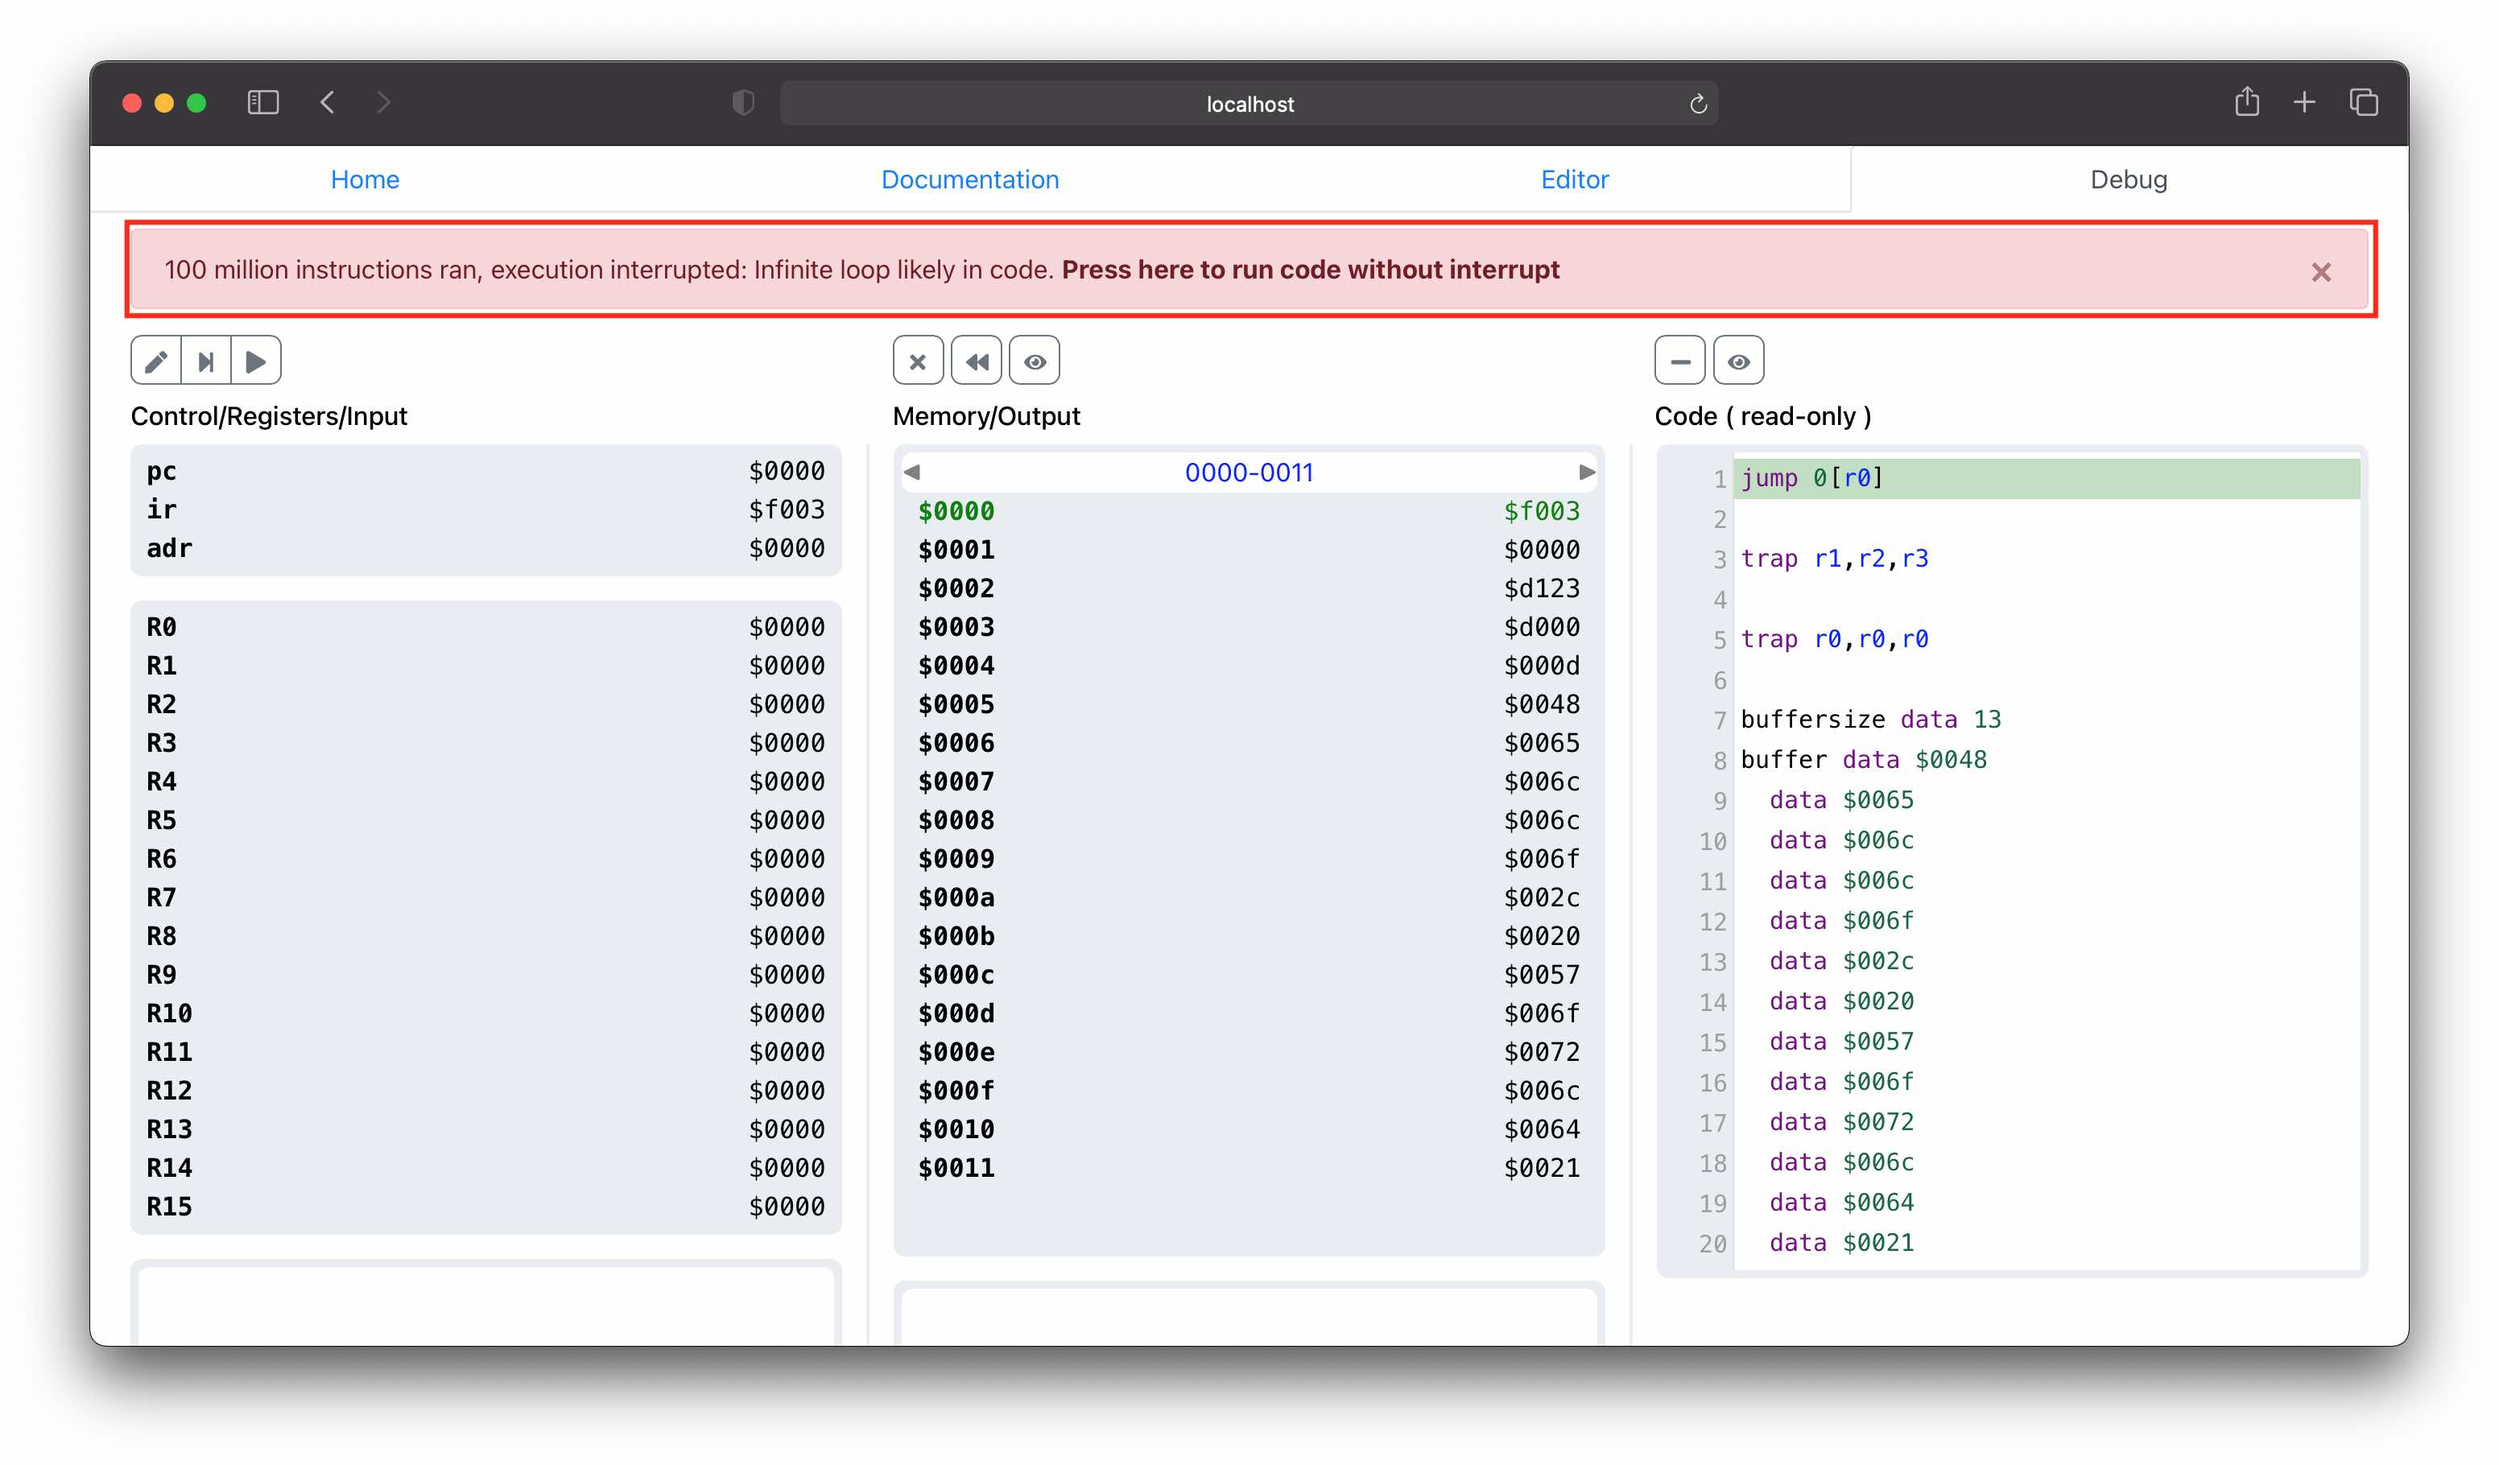
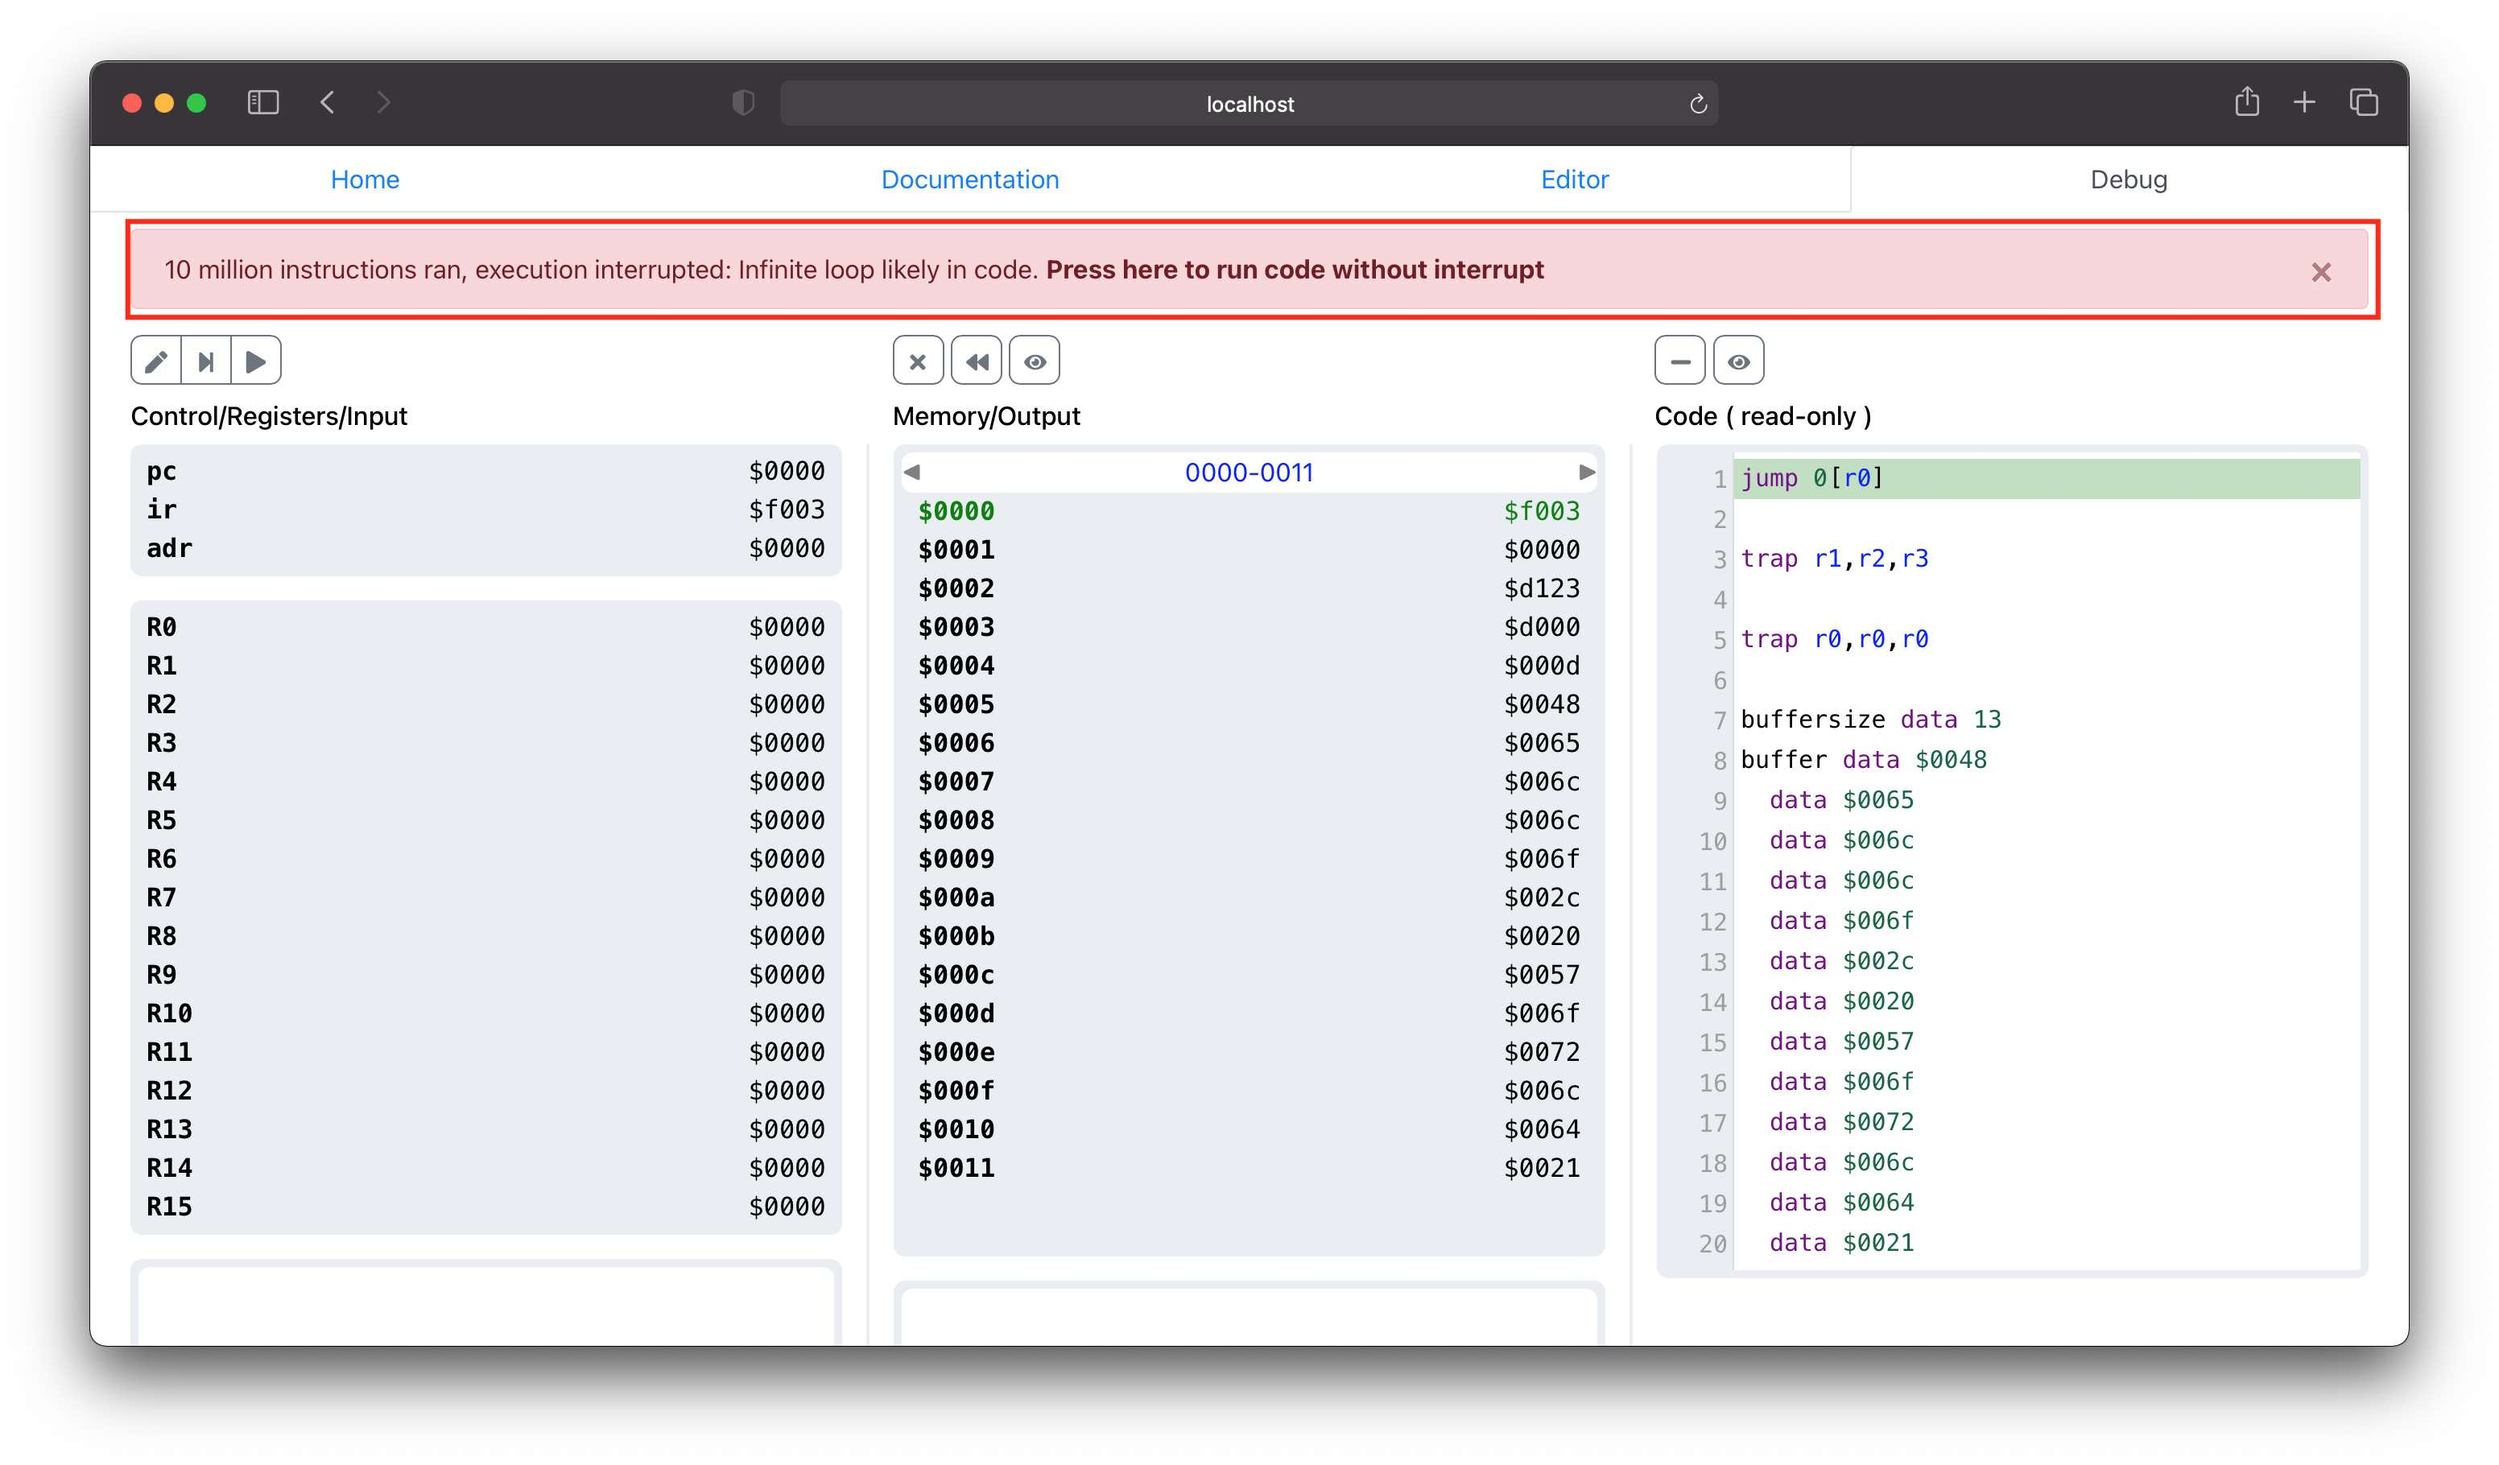
updated limits n number of instructions able to be ran before interrupt. updated docs to reflect change. updated breakpoints so that point displays above linecomps but has an overlay if there is a line comp for said line

Changed region(s): [[0.0625, 0.1231, 0.625, 0.2154], [0.9375, 0.1538, 0.9688, 0.2154]]

diff --git a/src/components/utils/CodeChunk.js b/src/components/utils/CodeChunk.js
@@ -148,11 +148,57 @@ export default class CodeMirrorComponent extends React.Component {
         linesDotted.push( lineI );
       }
     }
+    
+    for ( var ite = 0; ite < this.state.breakpoints.length; ite++ ) {
+      const lineI = this.state.breakpoints[ite] - 1;
+
+      if ( !( linesDotted.includes( lineI ) ) && lineI <= lines.length ) {
+        const styleTop = ( 25 * ( lineI + 0.75 ) ) + 3 +'px';
+
+        if ( this.props.lineComp && this.state.lineComp.get( lineI + 1 ) ) {
+          const classExtension = this.state.lineComp.get( ( lineI + 1 ) ).startsWith( 'Compatibility error : ' ) ? ' comperror' : ' compwarn';
+
+          breakpoints.push( 
+            <OverlayTrigger
+              key={'breakpoint ' + ( lineI + 1 ) + classExtension + ' tooltip'}
+              placement={'right'}
+              overlay={
+                <Tooltip>
+                  {this.state.lineComp.get( ( lineI + 1 ) )}
+                </Tooltip>
+              }>
+              <div 
+                key={'breakpoint ' + ( lineI + 1 )}
+                id={'breakpoint ' + ( lineI + 1 )} 
+                className={'breakpoint active'} 
+                style={{top : styleTop}} 
+                onClick={this.breakpointOnClick}/>
+            </OverlayTrigger>
+          );
+
+          linesDotted.push( lineI );
+        
+        } else {
+          breakpoints.push( 
+            <div 
+              key={'breakpoint ' + ( lineI + 1 )}
+              id={'breakpoint ' + ( lineI + 1 )} 
+              className={'breakpoint active'} 
+              style={{top : styleTop}} 
+              onClick={this.breakpointOnClick}/>
+          );
+
+          linesDotted.push( lineI );
+        }
+      }
+    }
+
+    // comp have less priority than regular breakpoints as they will have an overlay trigger to show the comp warning when a break point is activated
 
     if ( this.props.lineComp ) {
       for ( const key of this.state.lineComp.keys() ) {
         const lineI = key - 1;
-        var classExtension = this.state.lineComp.get( key ).startsWith( 'Compatibility error : ' ) ? ' comperror' : ' compwarn';
+        const classExtension = this.state.lineComp.get( key ).startsWith( 'Compatibility error : ' ) ? ' comperror' : ' compwarn';
 
         if ( !( linesDotted.includes( lineI ) ) && lineI <= lines.length ) {
           const styleTop = ( 25 * ( lineI + 0.75 ) ) + 3 +'px';
@@ -173,26 +219,7 @@ export default class CodeMirrorComponent extends React.Component {
                 style={{top : styleTop}} />
             </OverlayTrigger>
           );
-
-          linesDotted.push( lineI );
         }
-      }
-    }
-    
-    for ( var ite = 0; ite < this.state.breakpoints.length; ite++ ) {
-      const lineI = this.state.breakpoints[ite] - 1;
-
-      if ( !( linesDotted.includes( lineI ) ) && lineI <= lines.length ) {
-        const styleTop = ( 25 * ( lineI + 0.75 ) ) + 3 +'px';
-
-        breakpoints.push( 
-          <div 
-            key={'breakpoint ' + ( lineI + 1 )}
-            id={'breakpoint ' + ( lineI + 1 )} 
-            className={'breakpoint active'} 
-            style={{top : styleTop}} 
-            onClick={this.breakpointOnClick}/>
-        );
       }
     }
  

diff --git a/src/components/DocumentationView.js b/src/components/DocumentationView.js
@@ -1996,7 +1996,7 @@ export default class DocumentationView extends React.Component {
                   <InfoArea state={this.state} title={'Infinite loops'} depth={3}>
                     <div className='info-body white'>
                       If you attempt to run a program with a command with an <strong>infinite loop</strong>, such as a <code>jump 0[r0]</code>, the IDE will <strong>interrupt execution</strong> as it will recognise that <strong>too many</strong> instructions have been <strong>executed</strong><br/>
-                      The <strong>limit</strong> for the number of that the emulator will run is <strong>100 million</strong>, which <strong>equates</strong> to around <strong>90 seconds</strong> of execution
+                      The <strong>limit</strong> for the number of that the emulator will run is <strong>10 million</strong>, which <strong>equates</strong> to around <strong>7-8 seconds</strong> of execution
                       The <strong>IDE</strong> will then <strong>display</strong> an alert detailing that an <strong>infinite loop</strong> has been <strong>encountered</strong> during execution :<br/>
                       
                       <img style={{width : '100%', height : '100%'}} src={`${process.env.PUBLIC_URL}/docs/debugging12.jpg`} alt='Red box around infinite loop error'/><br/>

diff --git a/src/components/ProgramEditorView.js b/src/components/ProgramEditorView.js
@@ -503,8 +503,8 @@ export default class ProgramEditorView extends React.PureComponent {
 
         var count = 0;
 
-        // const runCap = 500_000_000; // ~ 25-30 second
-        const runCap = 100_000_000; // ~ 5-6 seconds
+        // const runCap = 100_000_000; // ~ 90 second
+        const runCap = 10_000_000; // ~ 7-8 seconds
 
         while ( !( ran['halted'] ) && ( interrupt ? count !== runCap : true ) ) {
           ran = Emulator.runMemory( localControl, localRegisters, localMemory, localInput, localOutput );
@@ -530,7 +530,7 @@ export default class ProgramEditorView extends React.PureComponent {
         } );
         
         if ( interrupt && count === runCap ) {
-          this.updateAlert( <span>100 million instructions ran, execution interrupted: Infinite loop likely in code. <strong><span className='alertlink' onClick={e => this.runCode(e, false)}>Press here to run code without interrupt</span></strong></span>, 'danger' );
+          this.updateAlert( <span>10 million instructions ran, execution interrupted: Infinite loop likely in code. <strong><span className='alertlink' onClick={e => this.runCode(e, false)}>Press here to run code without interrupt</span></strong></span>, 'danger' );
         }
       } else {
         this.updateAlert( canRun, 'danger' );

diff --git a/src/components/ProgramDebugView.js b/src/components/ProgramDebugView.js
@@ -712,8 +712,8 @@ export default class ProgramDebugView extends React.Component {
 
       var count = 0;
 
-      // const runCap = 500_000_000; // ~ 25-30 second
-      const runCap = 100_000_000; // ~ 5-6 seconds
+      // const runCap = 100_000_000; // ~ 90 second
+      const runCap = 10_000_000; // ~ 7-8 seconds
 
       while ( !( ran['halted'] ) && !encounteredBreakpoint && ( interrupt ? count !== runCap : true ) ) {
         if ( ran['control'] !== undefined ) {
@@ -757,7 +757,7 @@ export default class ProgramDebugView extends React.Component {
       } ) );
       
       if ( interrupt && count === runCap ) {
-        this.updateAlert( <span>100 million instructions ran, execution interrupted: Infinite loop likely in code. <strong><span className='alertlink' onClick={e => this.runCode(e, false)}>Press here to run code without interrupt</span></strong></span>, 'danger' );
+        this.updateAlert( <span>10 million instructions ran, execution interrupted: Infinite loop likely in code. <strong><span className='alertlink' onClick={e => this.runCode(e, false)}>Press here to run code without interrupt</span></strong></span>, 'danger' );
       }
     } else {
       this.updateAlert( canRun, 'danger' );
